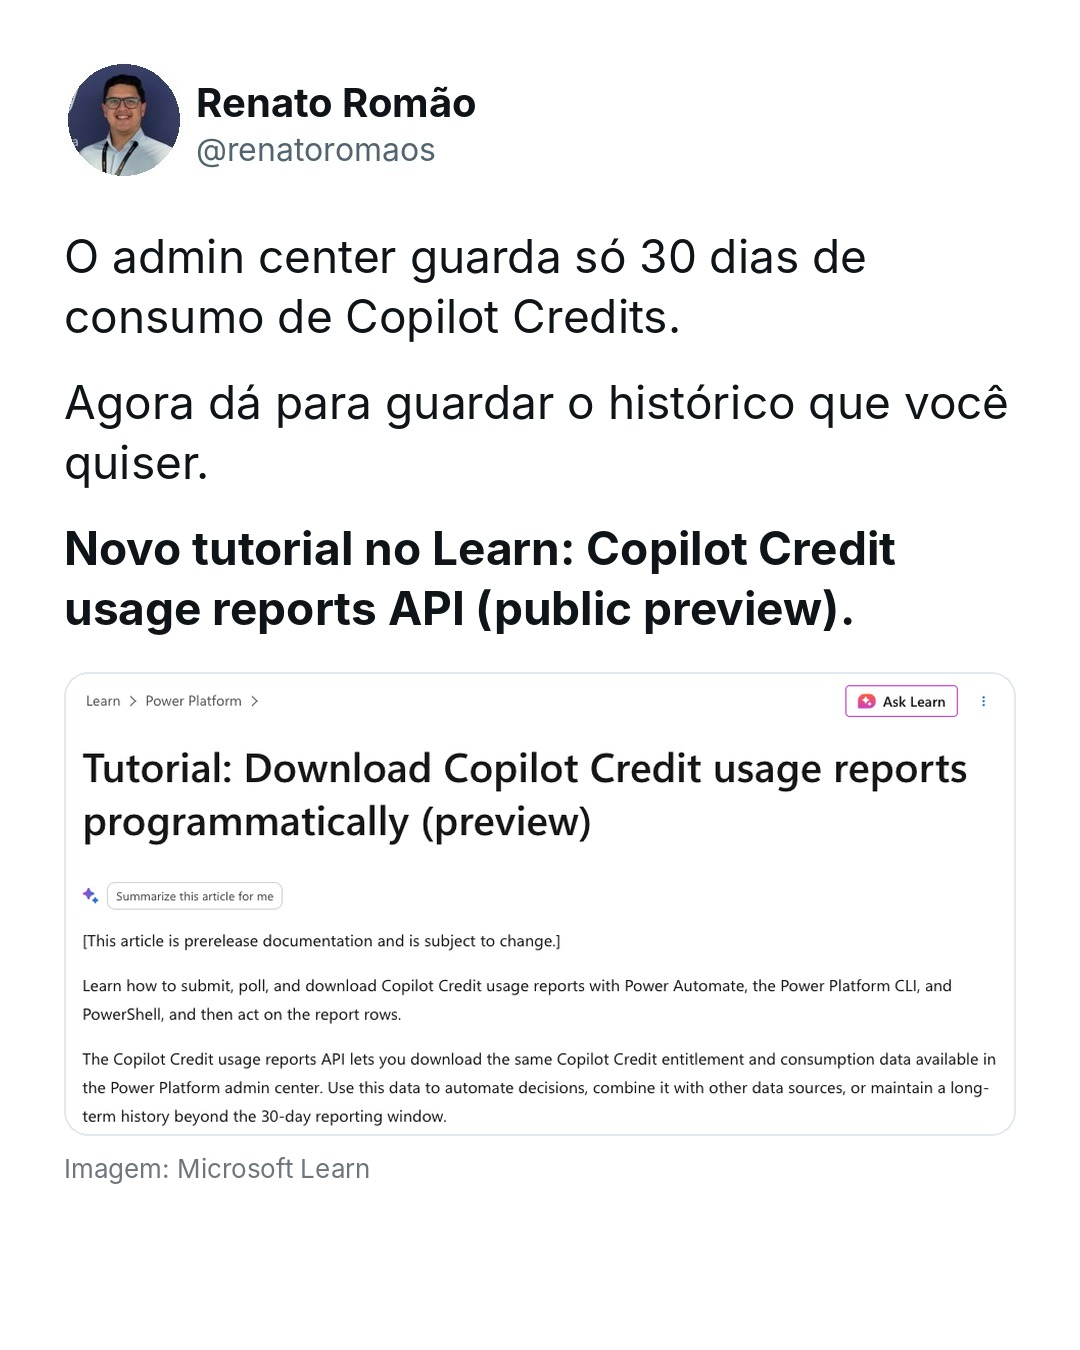
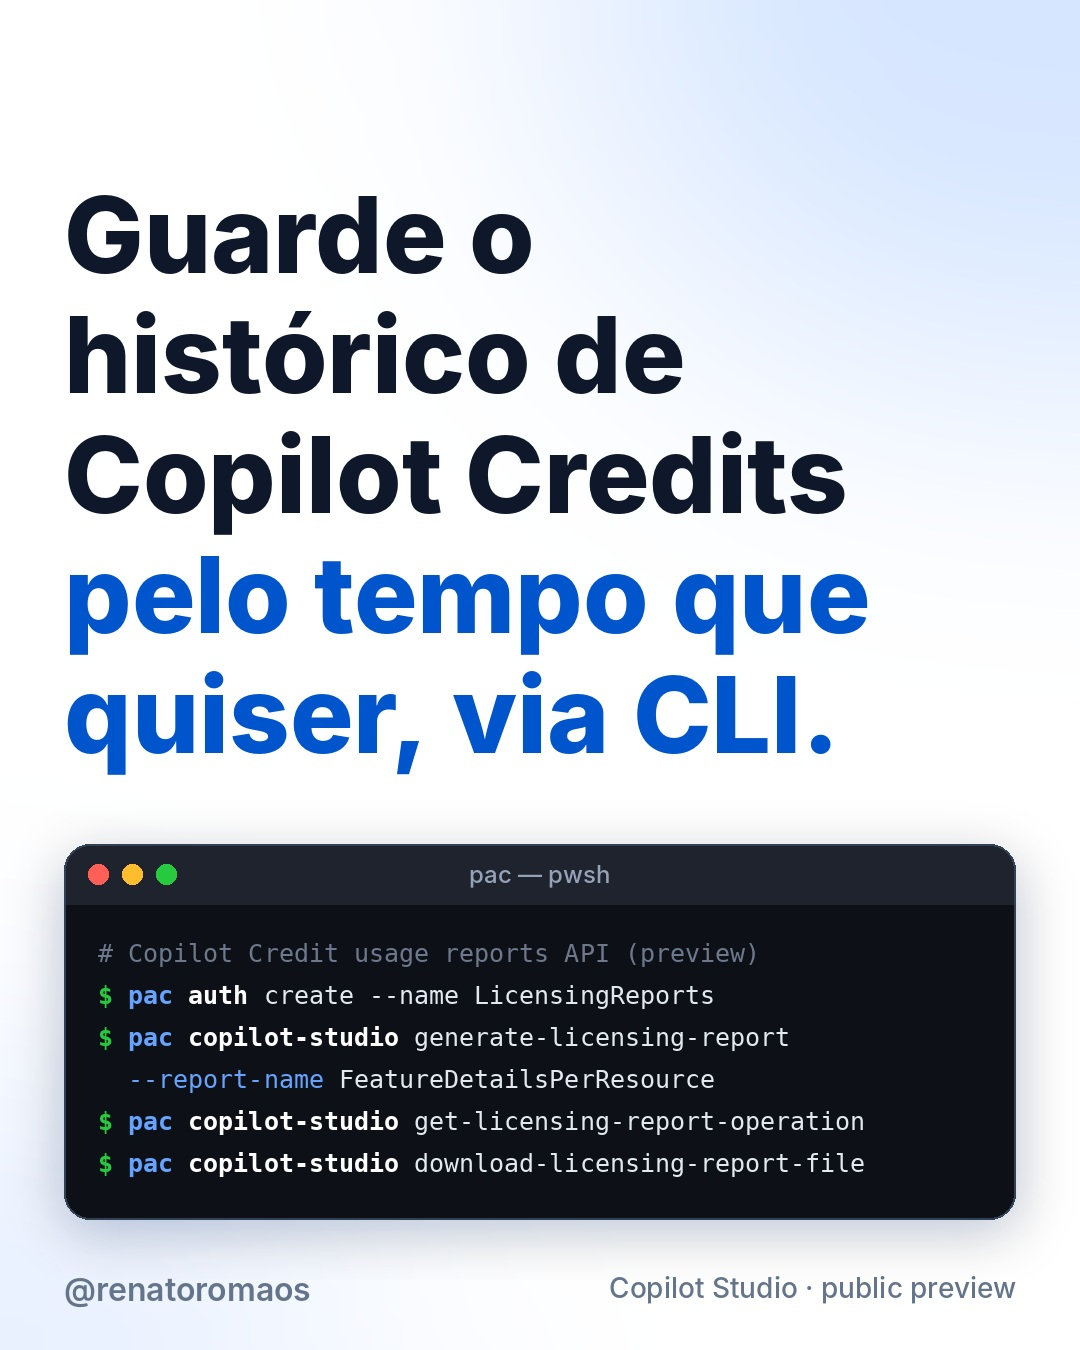
IG slide1 hero + via CLI; caption CTA

diff --git a/scripts/copilot_credit_reports_slides.py b/scripts/copilot_credit_reports_slides.py
@@ -92,31 +92,45 @@ def reports_card(w):
     d.text((40, y - 10), "granularity: Daily | Summary", font=mono(26), fill=(110, 120, 140))
     return im.crop((0, 0, w, y + 40))
 
-# ---------- LinkedIn image (light identity, dark terminal, blue) ----------
-def linkedin(path):
-    W, H, M = 1200, 1000, 76
-    im = Image.new("RGB", (W, H), "white")
+# ---------- LinkedIn image / Instagram slide 1 (light identity, dark terminal, blue) ----------
+def rich(d, x, y, text, f, lh, maxw):
+    toks = []
+    for part in re.split(r"(\*[^*]+\*)", text):
+        for w in part.strip("*").split(): toks.append((w, part.startswith("*")))
+    lines, cur, sp = [], [], d.textlength(" ", font=f)
+    for w, a in toks:
+        if cur and sum(d.textlength(t, font=f) + sp for t, _ in cur) + d.textlength(w, font=f) > maxw:
+            lines.append(cur); cur = []
+        cur.append((w, a))
+    lines.append(cur)
+    for ln in lines:
+        cx = x
+        for w, a in ln: d.text((cx, y), w, font=f, fill=BLUE if a else INK); cx += d.textlength(w, font=f) + sp
+        y += lh
+    return y
+
+TERM_LINES = ["# Copilot Credit usage reports API (preview)",
+              "pac auth create --name LicensingReports",
+              "pac copilot-studio generate-licensing-report",
+              "  --report-name FeatureDetailsPerResource",
+              "pac copilot-studio get-licensing-report-operation",
+              "pac copilot-studio download-licensing-report-file"]
+
+def hero(path, W, H, title, fs=84, tfs=29, M=76, top=96, handle=None):
     glow = Image.new("RGB", (W, H), "white"); g = ImageDraw.Draw(glow)
     g.ellipse((W - 520, -420, W + 380, 380), fill=(214, 230, 255))
     g.ellipse((-460, H - 300, 360, H + 380), fill=(232, 240, 255))
-    im = glow.filter(ImageFilter.GaussianBlur(150))
-    d = ImageDraw.Draw(im)
-    f = font("ExtraBold", 84); y = 96
-    for line in [[("Keep your Copilot Credit", INK)], [("history ", INK), ("as long as", BLUE)], [("you want.", BLUE)]]:
-        x = M
-        for t, c in line: d.text((x, y), t, font=f, fill=c); x += d.textlength(t, font=f)
-        y += 96
-    y += 44
-    T = terminal(["# Copilot Credit usage reports API (preview)",
-                  "pac auth create --name LicensingReports",
-                  "pac copilot-studio generate-licensing-report",
-                  "  --report-name FeatureDetailsPerResource",
-                  "pac copilot-studio get-licensing-report-operation",
-                  "pac copilot-studio download-licensing-report-file"], W - 2 * M, fs=29)
+    im = glow.filter(ImageFilter.GaussianBlur(150)); d = ImageDraw.Draw(im)
+    y = rich(d, M, top, title, font("ExtraBold", fs), int(fs * 1.14), W - 2 * M) + 44
+    T = terminal(TERM_LINES, W - 2 * M, fs=tfs)
+    if handle: y += 30
     sh = Image.new("RGBA", (T.width + 120, T.height + 120), (0, 0, 0, 0))
     ImageDraw.Draw(sh).rounded_rectangle((60, 76, T.width + 60, T.height + 70), 26, fill=(0, 60, 160, 70))
     sh = sh.filter(ImageFilter.GaussianBlur(26)); im.paste(sh, (M - 60, y - 60), sh)
     t = rounded(T, border=(51, 65, 85)); im.paste(t, (M, y), t)
+    if handle:
+        d = ImageDraw.Draw(im); d.text((M, H - 80), handle, font=font("SemiBold", 32), fill=GRAY)
+        d.text((W - M, H - 80), "Copilot Studio · public preview", font=font("Medium", 28), fill=GRAY, anchor="ra")
     im.save(path, quality=94)
 
 # ---------- tweet-card carousel ----------
@@ -204,9 +218,12 @@ SLUG = "2026-11-19-copilot-credit-reports"
 HDR = {"pt": Image.open(f"{ROOT}/instagram/2026-11-18-cowork-subagents/slide1.jpg").crop((0, 0, 1080, 205)),
        "en": Image.open(f"{ROOT}/x/2026-11-18-cowork-subagents/slide1.jpg").crop((0, 0, 1080, 205))}
 os.makedirs(f"{ROOT}/linkedin/{SLUG}", exist_ok=True)
-linkedin(f"{ROOT}/linkedin/{SLUG}/image.jpg")
+hero(f"{ROOT}/linkedin/{SLUG}/image.jpg", 1200, 1000, "Keep your Copilot Credit history *as long as you want, via CLI.*")
 for lang, folder in (("pt", "instagram"), ("en", "x")):
     out = f"{ROOT}/{folder}/{SLUG}"; os.makedirs(out, exist_ok=True)
     for i, (paras, img, src) in enumerate(TXT[lang], 1):
         tweet_slide(HDR[lang], paras, img, f"{out}/slide{i}.jpg", src)
+hero(f"{ROOT}/instagram/{SLUG}/slide1.jpg", 1080, 1350,
+     "Guarde o histórico de Copilot Credits *pelo tempo que quiser, via CLI.*",
+     fs=106, tfs=25, M=64, top=170, handle="@renatoromaos")
 print("ok")
